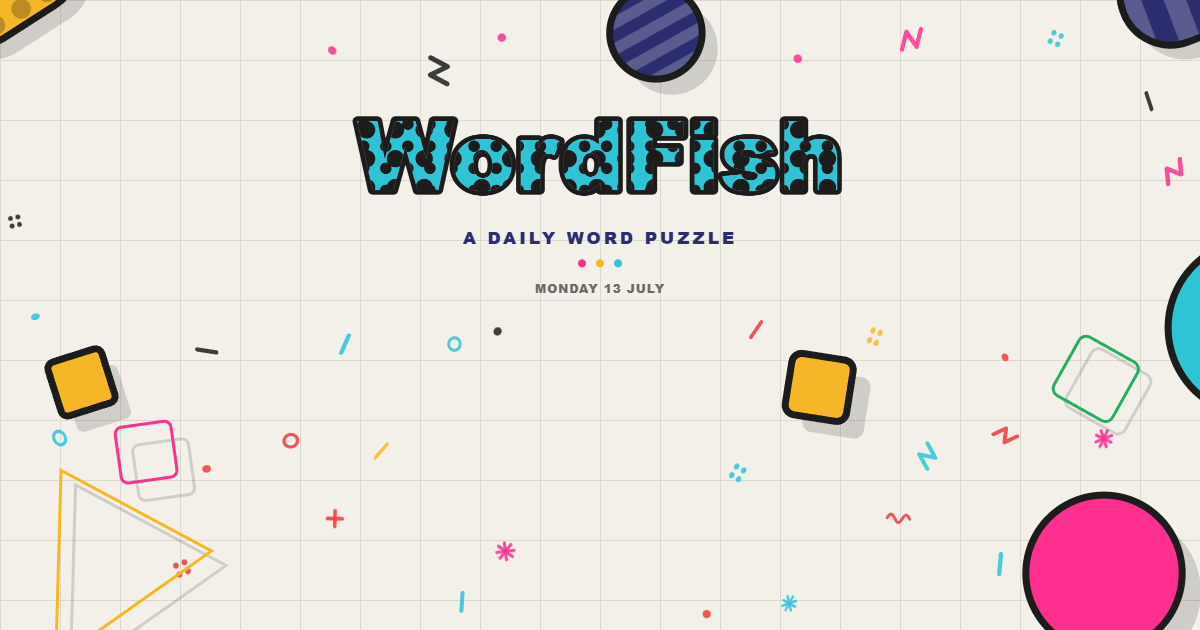
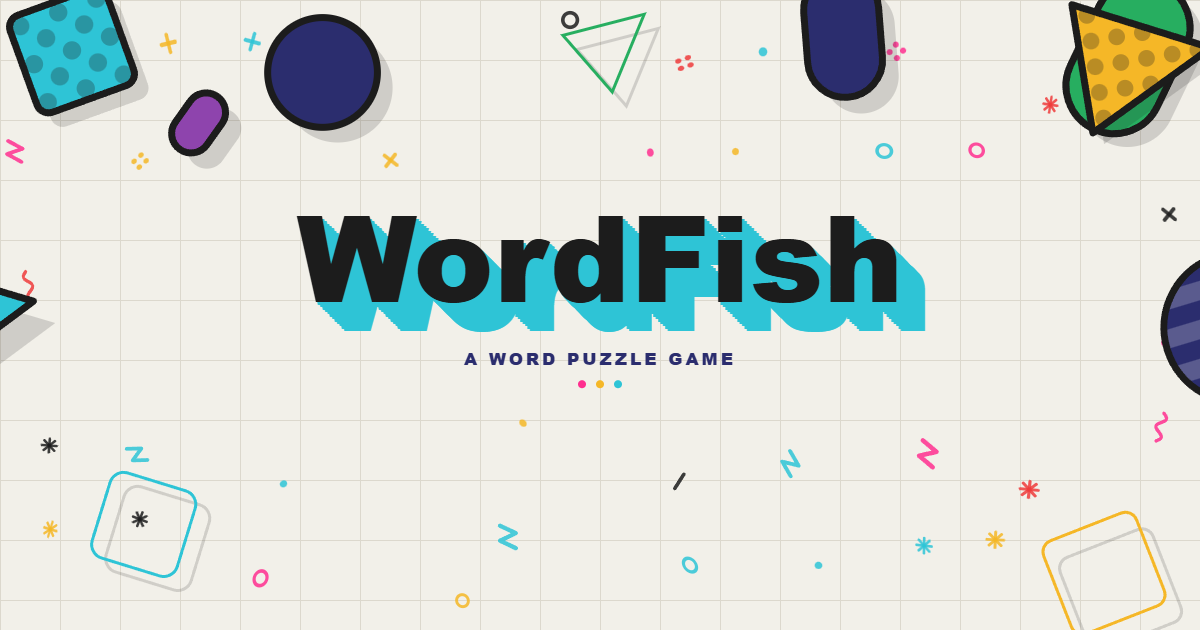
fixed embed image + splash screen on posts

diff --git a/wordfishgame/src/client/splash.ts b/wordfishgame/src/client/splash.ts
@@ -1423,25 +1423,28 @@ async function resolveCustom(): Promise<CustomData | null> {
   } catch {
     /* no search params in some webviews */
   }
-  const timeout = new Promise<null>((res) => window.setTimeout(() => res(null), 1500));
-  const fetched = (async (): Promise<CustomData | null> => {
-    try {
-      const res = await fetch('/api/init');
-      if (!res.ok) return null;
-      const data = (await res.json()) as Partial<InitResponse>;
-      if (data && data.puzzle) {
-        return {
-          puzzle: data.puzzle,
-          title: data.puzzleTitle ?? 'A WordFish puzzle',
-          author: data.puzzleAuthor ?? 'someone',
-        };
-      }
-      return null;
-    } catch {
-      return null;
+  // Aborts (rather than racing a separate discarding timer) so a slow-but-alive server can't
+  // have its eventual, correct post-specific splash data thrown away underneath it — that used
+  // to silently fall back to the generic daily splash whenever /api/init took over 1500ms.
+  const controller = new AbortController();
+  const timer = window.setTimeout(() => controller.abort(), 4000);
+  try {
+    const res = await fetch('/api/init', { signal: controller.signal });
+    if (!res.ok) return null;
+    const data = (await res.json()) as Partial<InitResponse>;
+    if (data && data.puzzle) {
+      return {
+        puzzle: data.puzzle,
+        title: data.puzzleTitle ?? 'A WordFish puzzle',
+        author: data.puzzleAuthor ?? 'someone',
+      };
     }
-  })();
-  return Promise.race([fetched, timeout]);
+    return null;
+  } catch {
+    return null;
+  } finally {
+    window.clearTimeout(timer);
+  }
 }
 
 // ---------------------------------------------------------------------------------------
@@ -1625,57 +1628,105 @@ function render(custom: CustomData | null, variantKnown: boolean) {
   }
 }
 
+/**
+ * The generic OG/link-preview card (see shareImage.ts server-side): a single static image
+ * reused for EVERY post, daily or community, so it can't show a date or per-post puzzle —
+ * unlike render(), which repaints live per post. Captured on demand via `?og=<seed>`
+ * (see scripts/captureShareImage — there is no such script yet, this is invoked manually
+ * from the browser while iterating on the look).
+ */
+function renderShareCard(seedOverride: number) {
+  const W = window.innerWidth;
+  const H = window.innerHeight;
+  const dpr = Math.min(window.devicePixelRatio || 1, 3);
+  canvas.width = Math.round(W * dpr);
+  canvas.height = Math.round(H * dpr);
+  const ctx = canvas.getContext('2d')!;
+  ctx.setTransform(dpr, 0, 0, dpr, 0, 0);
+
+  const rng = mulberry32(seedOverride);
+  const titleStyle = pick(rng, TITLE_STYLES);
+  const cx = W / 2;
+
+  const size = clamp(Math.round(W * 0.17), 48, 120);
+  const gap = size * 0.62 + 16;
+  const titleY = H / 2 - gap / 2;
+  const taglineY = H / 2 + gap / 2;
+  const dotsY = taglineY + 24;
+
+  paintBackground(ctx, W, H, rng, [
+    {
+      x: cx - W * 0.44,
+      y: titleY - size * 0.75,
+      w: W * 0.88,
+      h: dotsY + 16 - (titleY - size * 0.75),
+    },
+  ]);
+  drawTitle(ctx, cx, titleY, size, titleStyle);
+  drawText(ctx, 'A WORD PUZZLE GAME', cx, taglineY, clamp(Math.round(W * 0.032), 12, 17), '800', C.navy, 3);
+  drawAccentDots(ctx, cx, dotsY);
+
+  playBtn.style.visibility = 'hidden';
+  caption.style.visibility = 'hidden';
+}
+
 // ---------------------------------------------------------------------------------------
 // Boot
 // ---------------------------------------------------------------------------------------
 
-buildPlayButton('PLAY');
+const ogSeed = new URLSearchParams(window.location.search).get('og');
 
-playBtn.addEventListener('click', (e) => {
-  try {
-    requestExpandedMode(e, 'game');
-  } catch {
-    /* outside Devvit (local preview) — nothing to expand */
-  }
-});
+if (ogSeed !== null) {
+  renderShareCard(ogSeed ? hashString(ogSeed) : SEED);
+} else {
+  buildPlayButton('PLAY');
 
-let resolved: CustomData | null = null;
-let known = false;
-let painted = false;
+  playBtn.addEventListener('click', (e) => {
+    try {
+      requestExpandedMode(e, 'game');
+    } catch {
+      /* outside Devvit (local preview) — nothing to expand */
+    }
+  });
 
-// Hide the DOM button/caption immediately so there's no unstyled flash of a stray "PLAY"
-// at the top-left before the first paint runs (render() normally does this, but the first
-// paint is now delayed — see below).
-playBtn.style.visibility = 'hidden';
-caption.style.visibility = 'hidden';
+  let resolved: CustomData | null = null;
+  let known = false;
+  let painted = false;
 
-// Same-origin /api/init is usually fast, so give it a brief head start before falling back
-// to the bare-title placeholder: on a typical load this paints the real (daily or custom)
-// splash directly, with no intermediate flash. Only a genuinely slow fetch still shows the
-// placeholder first (previous behaviour), which then gets replaced once data arrives.
-const fallbackTimer = window.setTimeout(() => {
-  if (painted) return;
-  painted = true;
-  render(null, false);
-}, 220);
+  // Hide the DOM button/caption immediately so there's no unstyled flash of a stray "PLAY"
+  // at the top-left before the first paint runs (render() normally does this, but the first
+  // paint is now delayed — see below).
+  playBtn.style.visibility = 'hidden';
+  caption.style.visibility = 'hidden';
 
-void resolveCustom().then((custom) => {
-  window.clearTimeout(fallbackTimer);
-  painted = true;
-  resolved = custom;
-  known = true;
-  render(resolved, known);
-});
+  // Same-origin /api/init is usually fast, so give it a brief head start before falling back
+  // to the bare-title placeholder: on a typical load this paints the real (daily or custom)
+  // splash directly, with no intermediate flash. Only a genuinely slow fetch still shows the
+  // placeholder first (previous behaviour), which then gets replaced once data arrives.
+  const fallbackTimer = window.setTimeout(() => {
+    if (painted) return;
+    painted = true;
+    render(null, false);
+  }, 220);
 
-// Re-render on any viewport change. Both hooks are needed: some webviews never fire
-// window resize, and ResizeObserver covers those; the guard skips redundant repaints.
-let lastW = window.innerWidth;
-let lastH = window.innerHeight;
-function onViewportChange() {
-  if (window.innerWidth === lastW && window.innerHeight === lastH) return;
-  lastW = window.innerWidth;
-  lastH = window.innerHeight;
-  render(resolved, known);
+  void resolveCustom().then((custom) => {
+    window.clearTimeout(fallbackTimer);
+    painted = true;
+    resolved = custom;
+    known = true;
+    render(resolved, known);
+  });
+
+  // Re-render on any viewport change. Both hooks are needed: some webviews never fire
+  // window resize, and ResizeObserver covers those; the guard skips redundant repaints.
+  let lastW = window.innerWidth;
+  let lastH = window.innerHeight;
+  const onViewportChange = () => {
+    if (window.innerWidth === lastW && window.innerHeight === lastH) return;
+    lastW = window.innerWidth;
+    lastH = window.innerHeight;
+    render(resolved, known);
+  };
+  window.addEventListener('resize', onViewportChange);
+  new ResizeObserver(onViewportChange).observe(document.documentElement);
 }
-window.addEventListener('resize', onViewportChange);
-new ResizeObserver(onViewportChange).observe(document.documentElement);

diff --git a/wordfishgame/src/client/puzzle/remote.ts b/wordfishgame/src/client/puzzle/remote.ts
@@ -18,11 +18,17 @@ export function getBootDailyDay(): number | null {
   return bootDailyDay;
 }
 
-/** Fetch /api/init. Returns the custom puzzle for this post, or null (daily / offline), and as
- *  a side effect records the daily-day freeze (read via getBootDailyDay). */
-export async function fetchCustomPuzzle(): Promise<CustomPuzzle | null> {
+/** Fetch /api/init, aborting (and returning null) after `timeoutMs` rather than hanging
+ *  forever against a slow/absent server. Returns the custom puzzle for this post, or null
+ *  (daily / offline / timed out), and as a side effect records the daily-day freeze (read
+ *  via getBootDailyDay). Cancelling the actual request on timeout (rather than just racing
+ *  a separate timer and discarding whichever result arrives second) means a slow-but-alive
+ *  server can't have its eventual, correct answer silently thrown away underneath it. */
+export async function fetchCustomPuzzle(timeoutMs = 4000): Promise<CustomPuzzle | null> {
+  const controller = new AbortController();
+  const timer = window.setTimeout(() => controller.abort(), timeoutMs);
   try {
-    const res = await fetch('/api/init');
+    const res = await fetch('/api/init', { signal: controller.signal });
     if (!res.ok) return null;
     const data = (await res.json()) as Partial<InitResponse>;
     if (typeof data?.dailyDay === 'number') bootDailyDay = data.dailyDay;
@@ -36,7 +42,9 @@ export async function fetchCustomPuzzle(): Promise<CustomPuzzle | null> {
     }
     return null;
   } catch {
-    return null; // no server (local preview) — just play the daily
+    return null; // no server (local preview), offline, or timed out — just play the daily
+  } finally {
+    window.clearTimeout(timer);
   }
 }
 
@@ -98,8 +106,7 @@ export async function primeBootPuzzle(): Promise<void> {
   } catch {
     /* no search params in some webviews — fall through to the fetch */
   }
-  const timeout = new Promise<null>((resolve) => window.setTimeout(() => resolve(null), 1200));
-  bootPuzzle = await Promise.race([fetchCustomPuzzle(), timeout]);
+  bootPuzzle = await fetchCustomPuzzle();
 }
 
 export type PublishResult =

diff --git a/wordfishgame/src/server/routes/api.ts b/wordfishgame/src/server/routes/api.ts
@@ -33,9 +33,14 @@ api.get('/init', async (c) => {
   }
 
   try {
-    const [count, username, stored, dailyDay] = await Promise.all([
+    // Only postId/puzzle/dailyDay are actually consumed by the client (splash + boot) — the
+    // count/username fields below are unused leftovers from the starter template. Skipping
+    // reddit.getCurrentUsername() (a real network round-trip) shaves meaningful latency off
+    // this call, which the client races against a short timeout (see primeBootPuzzle /
+    // splash.ts's resolveCustom) — a slow /api/init used to lose that race and silently fall
+    // back to the generic daily splash / menu.
+    const [count, stored, dailyDay] = await Promise.all([
       redis.get('count'),
-      reddit.getCurrentUsername(),
       loadPuzzle(postId),
       getDailyDay(postId),
     ]);
@@ -44,7 +49,7 @@ api.get('/init', async (c) => {
       type: 'init',
       postId: postId,
       count: count ? parseInt(count) : 0,
-      username: username ?? 'anonymous',
+      username: 'anonymous',
       // Only present for user-created puzzle posts; the daily post has nothing stored.
       ...(stored
         ? {

diff --git a/wordfishgame/src/client/puzzle/WinPopup.ts b/wordfishgame/src/client/puzzle/WinPopup.ts
@@ -276,6 +276,14 @@ export class WinPopup extends Phaser.GameObjects.Container {
     });
   }
 
+  /** Re-clamp the card to the current screen bounds — call this on canvas resize so a card
+   *  left near an edge (or centred at a now-stale width/height) doesn't end up hanging off
+   *  the new viewport, with its hit area no longer matching what's visible. */
+  recenter() {
+    const { x, y } = this.clampToScreen(this.x, this.y);
+    this.setPosition(x, y);
+  }
+
   /** Keep the card's panel fully on-screen while it's dragged, so it can be nudged aside but
    *  never off the edge (matching the word tiles). If the canvas is narrower/shorter than the
    *  panel, it pins to centre on that axis rather than jamming against one edge. */

diff --git a/wordfishgame/src/client/scenes/PuzzleScene.ts b/wordfishgame/src/client/scenes/PuzzleScene.ts
@@ -102,6 +102,7 @@ export class PuzzleScene extends Phaser.Scene implements TileHost {
     this.scale.on('resize', () => {
       this.keyboard?.layout();
       this.applyLayout();
+      this.winPopup?.recenter();
     });
 
     // Woken from the menu again — reload the chosen puzzle and slide back in.
@@ -358,7 +359,7 @@ export class PuzzleScene extends Phaser.Scene implements TileHost {
   }
 
   private get modalOpen(): boolean {
-    return this.help !== null;
+    return this.help !== null || this.winPopup !== null;
   }
 
   /**